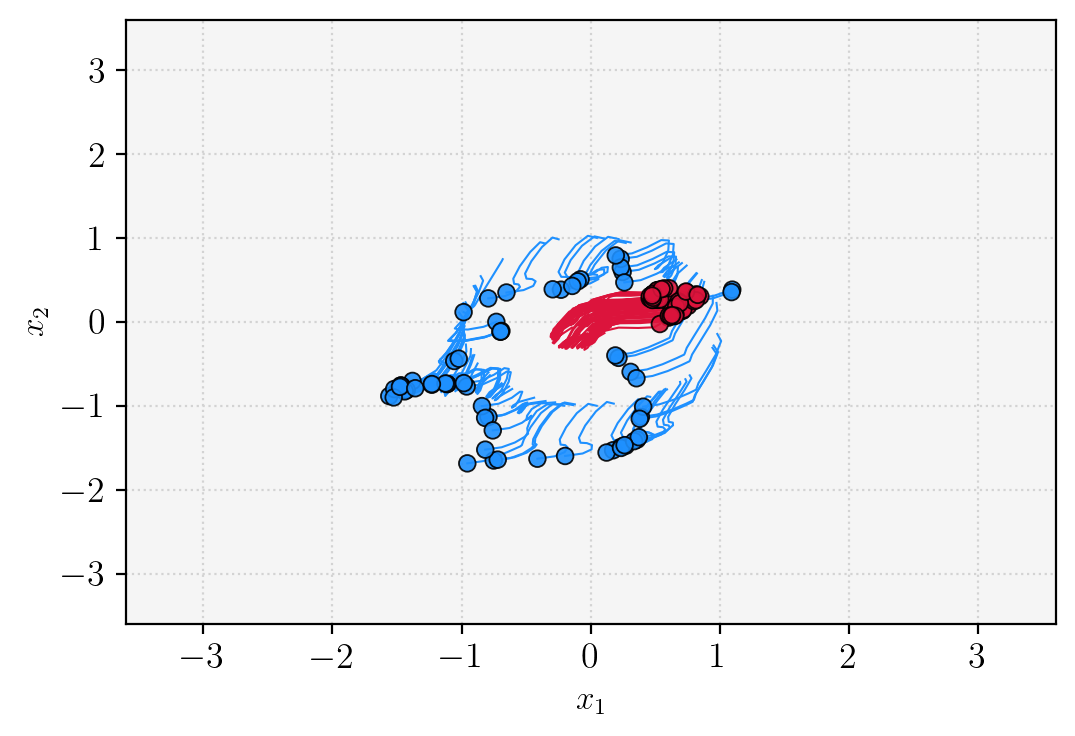
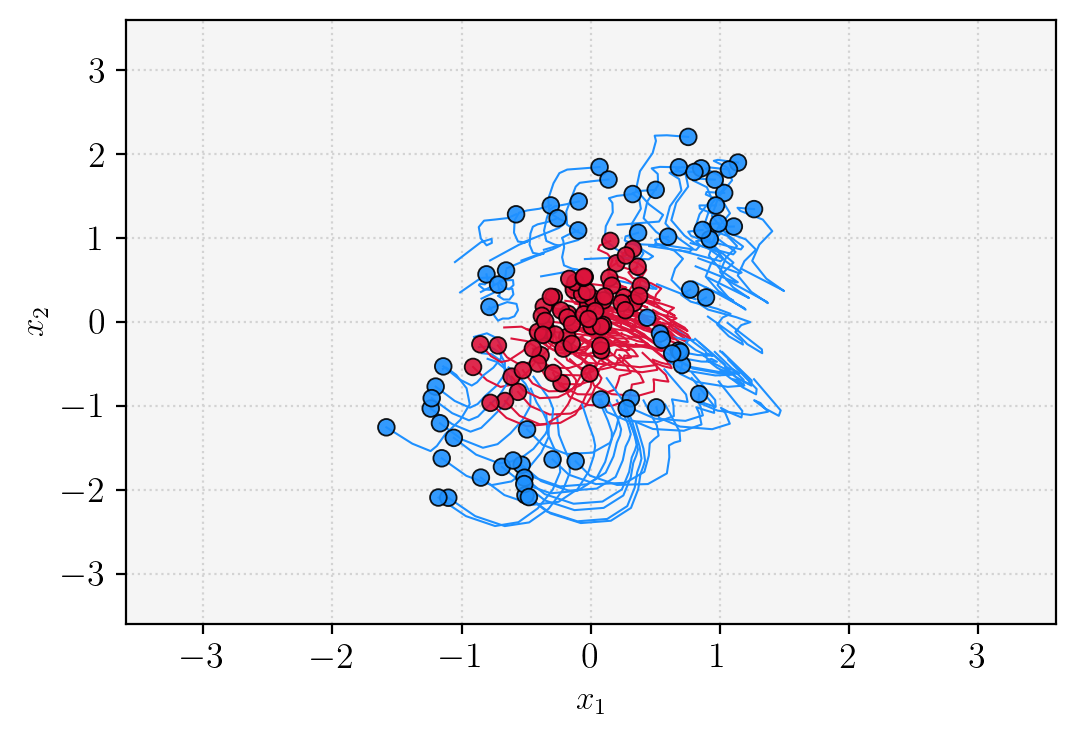
experiment with circles works on fau cpu

Changed region(s): [[0.3377, 0.1562, 0.7367, 0.7188]]

diff --git a/models/training.py b/models/training.py
@@ -211,7 +211,7 @@ class epsTrainer():
         epoch_loss = 0.
         epoch_acc = 0.
 
-        v_steps = 8
+        v_steps = 5
         v = torch.zeros(v_steps,2)
         eps = self.eps
         loss_max = torch.tensor(0.)
@@ -242,16 +242,18 @@ class epsTrainer():
                 loss = self.loss_func(y_pred, y_batch)
                 # v = torch.tensor([0,1.])
                 #adding perturbed trajectories
-                loss_max = torch.tensor(0.)
-                for k in range(v_steps):
-                    y_eps, traj_eps = self.model(x_batch + eps*v[k]) #model for perturbed input
-                    loss_v = (traj_eps - traj).abs().sum(dim = 0) #for trapezoidal rule. endpoints not regarded atm
-                    loss_max = torch.maximum(loss_max,loss_v)
-                    print('loss max', loss_max.sum())
-                    # print('loss_v', loss_v)
-                    # print('loss max',loss_max)
-                loss += 0.005*loss_max.sum()
-                print('loss',loss)
+                
+                if eps > 0.:
+                    loss_max = torch.tensor(0.)
+                    for k in range(v_steps):
+                        y_eps, traj_eps = self.model(x_batch + eps*v[k]) #model for perturbed input
+                        loss_v = (traj_eps - traj).abs().sum(dim = 0) #for trapezoidal rule. endpoints not regarded atm
+                        loss_max = torch.maximum(loss_max,loss_v)
+                        # print('loss max', loss_max.sum())
+                        # print('loss_v', loss_v)
+                        # print('loss max',loss_max)
+                    loss += 0.005*loss_max.sum()
+                    # print('loss',loss)
             else:                                                       ## Augmented empirical risk minimization
                 if self.threshold>0: # l1 controls
                     l1_regularization = 0.

diff --git a/plots/plots.py b/plots/plots.py
@@ -343,7 +343,7 @@ def plt_classifier(model, data_line, test, plot_range=(-2.0, 2.0), num_steps=201
 
 
     
-    dataloader_viz = DataLoader(data_line, batch_size=100, shuffle=True) #was 800
+    dataloader_viz = DataLoader(data_line, batch_size=200, shuffle=True) #was 800
     test_viz = DataLoader(test, batch_size = 80, shuffle=True) #was 80
     for inputs, targets in dataloader_viz:
         break    
